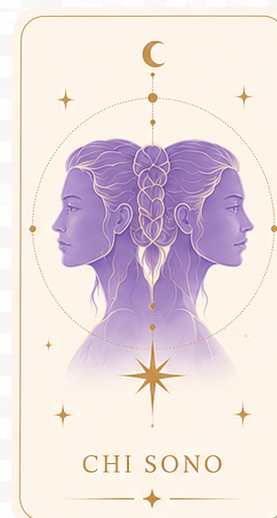
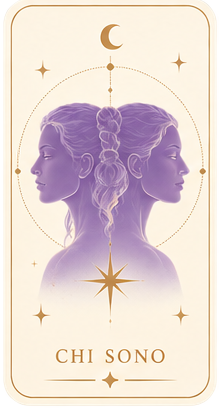
Aggiorna artwork carte tema chiaro e sistema layout responsive
Sostituisce le immagini tema chiaro di tutte e sei le carte (aggiunge le
varianti mancanti per meditazione ed eventi) e adatta il rapporto di
visualizzazione della carta nel mazzo alle dimensioni reali dell'artwork
per tema, evitando che object-fit: cover ritagli l'immagine in alto/basso.

Rimuove inoltre l'inclinazione costante applicata dall'animazione di
fluttuazione, che faceva sembrare le carte ruotate anche in colonna, e
regola la disposizione delle colonne su schermi "responsive" (tablet e
laptop stretti): carte leggermente più grandi, spostate un po' più
verso l'esterno e con un lieve arco che avvolge la figura centrale.

diff --git a/src/app/cover/data.ts b/src/app/cover/data.ts
@@ -43,8 +43,8 @@ export const CARD_SECTIONS: CardSection[] = [
     imageLight: "/cards/lezioni-light.png",
     imageWidth: 213,
     imageHeight: 391,
-    imageLightWidth: 289,
-    imageLightHeight: 519,
+    imageLightWidth: 211,
+    imageLightHeight: 407,
     intro: "Lezioni di yoga in piccoli gruppi e individuali.",
     paragraphs: [
       "Pratiche ispirate al Vinyasa, tra movimento, forza e consapevolezza.",
@@ -63,8 +63,8 @@ export const CARD_SECTIONS: CardSection[] = [
     imageLight: "/cards/chi_sono-light.png",
     imageWidth: 215,
     imageHeight: 388,
-    imageLightWidth: 277,
-    imageLightHeight: 518,
+    imageLightWidth: 219,
+    imageLightHeight: 409,
     intro: "Insegno yoga attraverso movimento, forza, respiro e consapevolezza.",
     paragraphs: [
       "La mia pratica nasce dal Vinyasa e incontra lo studio della forza e del movimento, senza perdere ciò che mi ha portata allo yoga più di dieci anni fa: la curiosità per quello che accade dentro, oltre la forma delle asana.",
@@ -79,8 +79,11 @@ export const CARD_SECTIONS: CardSection[] = [
     kicker: "Presenza",
     Icon: MeditazioneIcon,
     image: "/cards/meditazione.png",
+    imageLight: "/cards/meditazione-light.png",
     imageWidth: 220,
     imageHeight: 390,
+    imageLightWidth: 221,
+    imageLightHeight: 408,
     intro: "Pratiche guidate per rallentare, ascoltare e tornare al centro.",
     paragraphs: ["Meditazioni guidate, mindfulness e incontri a tema per calmare la mente e aprire il cuore. Torna al centro. Sempre."],
     cta: { label: "Scopri la meditazione", href: "/calendario" },
@@ -96,8 +99,8 @@ export const CARD_SECTIONS: CardSection[] = [
     imageLight: "/cards/calendario-light.png",
     imageWidth: 215,
     imageHeight: 391,
-    imageLightWidth: 293,
-    imageLightHeight: 503,
+    imageLightWidth: 216,
+    imageLightHeight: 410,
     intro: "Scopri gli eventi e le pratiche in programma.",
     paragraphs: ["Lezioni, workshop, meditazioni e ritiri: il calendario completo, sempre aggiornato, con la possibilità di prenotare il tuo posto."],
     cta: { label: "Vai al calendario", href: "/calendario" },
@@ -113,8 +116,8 @@ export const CARD_SECTIONS: CardSection[] = [
     imageLight: "/cards/contatti-light.png",
     imageWidth: 216,
     imageHeight: 392,
-    imageLightWidth: 289,
-    imageLightHeight: 519,
+    imageLightWidth: 214,
+    imageLightHeight: 410,
     intro: "Hai domande o vuoi collaborare con me?",
     paragraphs: ["Sono qui per te. Scrivimi per informazioni su orari, prezzi o per prenotare la tua prima lezione di prova."],
     cta: { label: "Scrivimi", href: "#contatti-form" },
@@ -128,8 +131,11 @@ export const CARD_SECTIONS: CardSection[] = [
     kicker: "Occasioni speciali",
     Icon: EventiIcon,
     image: "/cards/eventi.png",
+    imageLight: "/cards/eventi-light.png",
     imageWidth: 215,
     imageHeight: 391,
+    imageLightWidth: 213,
+    imageLightHeight: 414,
     intro: "Incontri speciali, fuori dal calendario abituale.",
     paragraphs: ["Workshop a tema, eventi stagionali e serate speciali: le occasioni per praticare insieme in modo diverso."],
     cta: { label: "Scopri gli eventi", href: "/calendario" },

diff --git a/src/app/cover/FloatingCards.tsx b/src/app/cover/FloatingCards.tsx
@@ -30,14 +30,18 @@ function useViewportWidth(defaultWidth = 1280) {
 // Colonna sinistra (indici pari 0/2/4) e colonna destra (indici dispari
 // 1/3/5), 3 carte ciascuna, allineate a coppie sulla stessa riga, a fianco
 // della figura centrale. Il top parte da 28% (non più 14%) per lasciare
-// respiro sotto il banner.
-const COLUMN_TOPS: { side: "L" | "R"; top: number }[] = [
-  { side: "L", top: 28 },
-  { side: "R", top: 28 },
-  { side: "L", top: 53 },
-  { side: "R", top: 53 },
-  { side: "L", top: 78 },
-  { side: "R", top: 78 },
+// respiro sotto il banner. `arc` sposta la riga rispetto al centro (punti
+// percentuali extra di distanza): positivo per la riga centrale, così le
+// colonne si incurvano leggermente verso l'esterno all'altezza del busto e
+// si stringono verso testa/gambe, avvolgendo la figura invece di restare
+// due linee dritte.
+const COLUMN_TOPS: { side: "L" | "R"; top: number; arc: number }[] = [
+  { side: "L", top: 28, arc: 0 },
+  { side: "R", top: 28, arc: 0 },
+  { side: "L", top: 53, arc: 3 },
+  { side: "R", top: 53, arc: 3 },
+  { side: "L", top: 78, arc: 0 },
+  { side: "R", top: 78, arc: 0 },
 ];
 
 // Quanto sono vicine al centro le colonne dipende dalla larghezza: al limite
@@ -49,15 +53,21 @@ const COLUMN_MAX_VW = 1400;
 const COLUMN_LEFT_MIN = 20;
 const COLUMN_LEFT_MAX = 27;
 
+// Sotto questa larghezza ("responsive": tablet e laptop stretti) le colonne
+// si spostano di un pizzico verso l'esterno rispetto al valore base.
+const RESPONSIVE_MAX_VW = 1280;
+const RESPONSIVE_EXTRA_OFFSET = 2;
+
 function columnLeftForWidth(vw: number) {
   const t = Math.min(1, Math.max(0, (vw - COLUMN_MIN_VW) / (COLUMN_MAX_VW - COLUMN_MIN_VW)));
-  return COLUMN_LEFT_MIN + (COLUMN_LEFT_MAX - COLUMN_LEFT_MIN) * t;
+  const left = COLUMN_LEFT_MIN + (COLUMN_LEFT_MAX - COLUMN_LEFT_MIN) * t;
+  return vw < RESPONSIVE_MAX_VW ? left - RESPONSIVE_EXTRA_OFFSET : left;
 }
 
 function buildColumnPositions(vw: number): CardPose[] {
   const colLeft = columnLeftForWidth(vw);
-  return COLUMN_TOPS.map(({ side, top }) => ({
-    left: side === "L" ? colLeft : 100 - colLeft,
+  return COLUMN_TOPS.map(({ side, top, arc }) => ({
+    left: side === "L" ? colLeft - arc : 100 - colLeft + arc,
     top,
     rot: 0,
     scale: 1,

diff --git a/src/app/cover/TarotCard.tsx b/src/app/cover/TarotCard.tsx
@@ -4,12 +4,6 @@ import Image from "next/image";
 import type { CardSection } from "./data";
 import { useTheme } from "./hooks";
 
-// Rapporto di visualizzazione della carta — più largo del rapporto nativo
-// dell'illustrazione (che è molto stretta e allungata), per una proporzione
-// da tarocco classico. L'immagine viene ritagliata (object-fit: cover), non
-// distorta.
-const DISPLAY_RATIO = "0.56";
-
 export function TarotCard({
   section,
   index,
@@ -26,13 +20,19 @@ export function TarotCard({
   onSelect: (id: string) => void;
 }) {
   const theme = useTheme();
-  const image = theme === "light" ? (section.imageLight ?? section.image) : section.image;
+  const isLight = theme === "light";
+  const image = isLight ? (section.imageLight ?? section.image) : section.image;
+  // Rapporto derivato dalle dimensioni reali dell'artwork, per tema — evita
+  // che object-fit: cover ritagli l'immagine in alto/basso quando la variante
+  // chiara ha proporzioni diverse da quella scura.
+  const imageWidth = isLight ? (section.imageLightWidth ?? section.imageWidth) : section.imageWidth;
+  const imageHeight = isLight ? (section.imageLightHeight ?? section.imageHeight) : section.imageHeight;
 
   return (
     <button
       type="button"
       className={`tarot-card${active ? " is-active" : ""}${dimmed ? " is-dimmed" : ""}${flipping ? " is-flipping" : ""}`}
-      style={{ "--card-index": index, aspectRatio: DISPLAY_RATIO } as React.CSSProperties}
+      style={{ "--card-index": index, aspectRatio: `${imageWidth} / ${imageHeight}` } as React.CSSProperties}
       onClick={() => onSelect(section.id)}
       aria-label={`Apri la sezione ${section.label}`}
     >

diff --git a/src/app/globals.css b/src/app/globals.css
@@ -651,6 +651,16 @@ body {
   z-index: 40;
 }
 
+/* Responsive (tablet / laptop stretti): il layout a colonne resta lo stesso
+   del desktop pieno, ma sotto i 7vw della formula base le carte finiscono
+   ferme al minimo di 84px — leggermente più grandi qui, senza toccare la
+   griglia mobile (che ha una propria larghezza in .cover-cards-grid). */
+@media (min-width: 860px) and (max-width: 1279px) {
+  .cover-cards-ring .tarot-card {
+    width: 100px;
+  }
+}
+
 .tarot-card-float {
   display: block;
   position: relative;
@@ -672,11 +682,9 @@ body {
 
 .cover-card-slot:nth-child(odd) .tarot-card-float {
   animation-duration: 8.5s;
-  --tilt: -2deg;
 }
 .cover-card-slot:nth-child(even) .tarot-card-float {
   animation-duration: 6.5s;
-  --tilt: 2deg;
 }
 
 /* Al click, la carta fa un singolo mezzo giro su se stessa e sfuma prima
